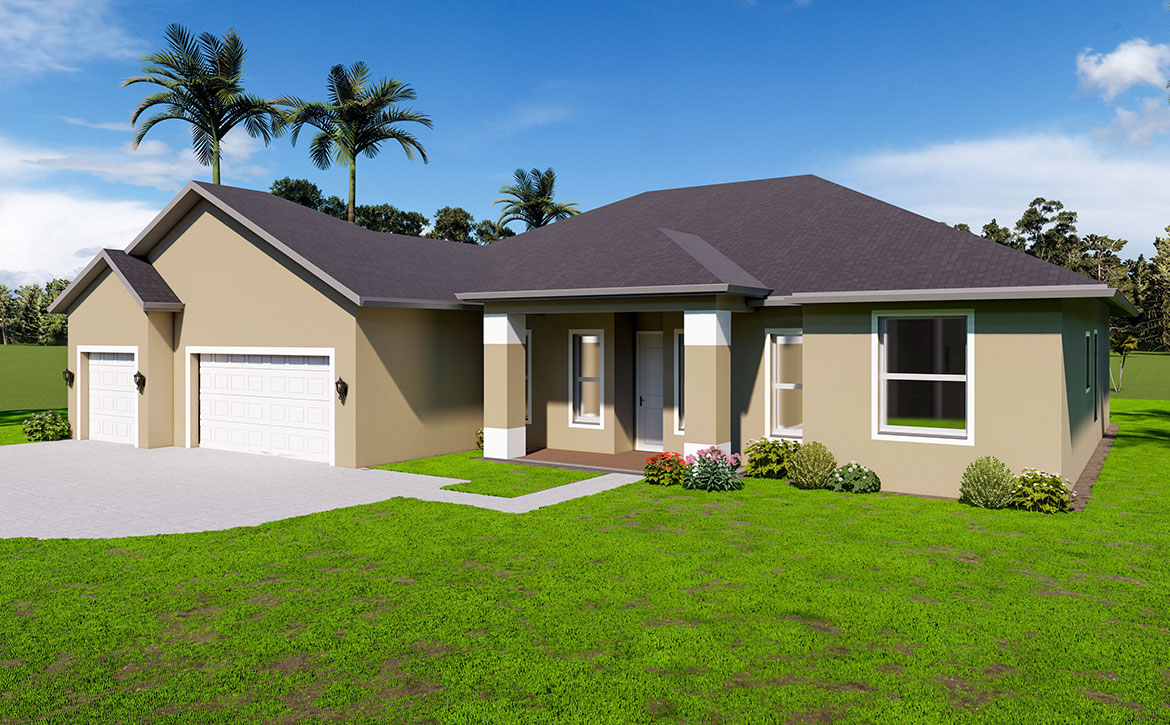
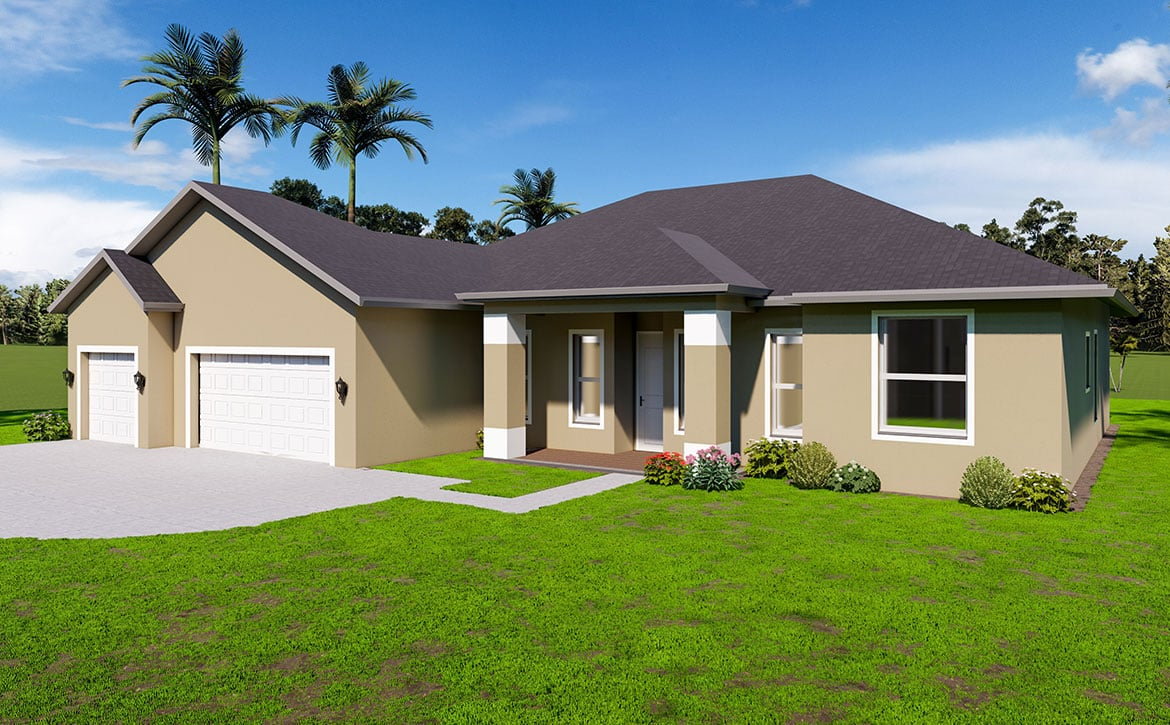
Add image optimization script and update images

diff --git a/scripts/optimize-images.js b/scripts/optimize-images.js
@@ -1,0 +1,273 @@
+const sharp = require('sharp');
+const fs = require('fs');
+const path = require('path');
+
+const imgDir = path.join(__dirname, '../public/img');
+const testimonialsDir = path.join(__dirname, '../public/img/testimonios');
+
+// Configuración de optimización
+const config = {
+  jpg: {
+    quality: 85, // Calidad 85 es un buen balance entre tamaño y calidad
+    mozjpeg: true, // Usa mozjpeg para mejor compresión
+  },
+  png: {
+    quality: 90,
+    compressionLevel: 9, // Máxima compresión
+    palette: true, // Intenta usar paleta de colores si es posible
+  },
+  webp: {
+    quality: 85,
+    effort: 6, // Esfuerzo de compresión (0-6, más alto = mejor compresión pero más lento)
+  },
+};
+
+// Tamaño máximo recomendado para imágenes web (1920px de ancho es suficiente para la mayoría)
+const maxWidth = 1920;
+const maxHeight = 1920;
+
+/**
+ * Formatea bytes a formato legible
+ */
+const formatBytes = (bytes) => {
+  if (bytes < 1024) return `${bytes} B`;
+  if (bytes < 1024 * 1024) return `${(bytes / 1024).toFixed(2)} KB`;
+  return `${(bytes / (1024 * 1024)).toFixed(2)} MB`;
+};
+
+/**
+ * Obtiene el tamaño del archivo en formato legible
+ */
+const getFileSize = (filePath) => {
+  const stats = fs.statSync(filePath);
+  return formatBytes(stats.size);
+};
+
+/**
+ * Optimiza una imagen JPG
+ */
+const optimizeJPG = async (inputPath, outputPath) => {
+  const metadata = await sharp(inputPath).metadata();
+  let pipeline = sharp(inputPath);
+
+  // Redimensionar si es muy grande
+  if (metadata.width > maxWidth || metadata.height > maxHeight) {
+    pipeline = pipeline.resize(maxWidth, maxHeight, {
+      fit: 'inside',
+      withoutEnlargement: true,
+    });
+  }
+
+  await pipeline
+    .jpeg({
+      quality: config.jpg.quality,
+      mozjpeg: config.jpg.mozjpeg,
+    })
+    .toFile(outputPath);
+};
+
+/**
+ * Optimiza una imagen PNG
+ */
+const optimizePNG = async (inputPath, outputPath) => {
+  const metadata = await sharp(inputPath).metadata();
+  let pipeline = sharp(inputPath);
+
+  // Redimensionar si es muy grande
+  if (metadata.width > maxWidth || metadata.height > maxHeight) {
+    pipeline = pipeline.resize(maxWidth, maxHeight, {
+      fit: 'inside',
+      withoutEnlargement: true,
+    });
+  }
+
+  await pipeline
+    .png({
+      quality: config.png.quality,
+      compressionLevel: config.png.compressionLevel,
+      palette: config.png.palette,
+    })
+    .toFile(outputPath);
+};
+
+/**
+ * Optimiza una imagen convirtiéndola a WebP (opcional, mejor compresión)
+ */
+const optimizeToWebP = async (inputPath, outputPath) => {
+  const metadata = await sharp(inputPath).metadata();
+  let pipeline = sharp(inputPath);
+
+  // Redimensionar si es muy grande
+  if (metadata.width > maxWidth || metadata.height > maxHeight) {
+    pipeline = pipeline.resize(maxWidth, maxHeight, {
+      fit: 'inside',
+      withoutEnlargement: true,
+    });
+  }
+
+  await pipeline
+    .webp({
+      quality: config.webp.quality,
+      effort: config.webp.effort,
+    })
+    .toFile(outputPath);
+};
+
+/**
+ * Procesa un archivo de imagen
+ */
+const processImage = async (filePath) => {
+  const ext = path.extname(filePath).toLowerCase();
+  const fileName = path.basename(filePath);
+  const dir = path.dirname(filePath);
+  const nameWithoutExt = path.basename(filePath, ext);
+
+  // Obtener tamaño original
+  const originalSize = fs.statSync(filePath).size;
+
+  try {
+    let outputPath;
+    let optimized = false;
+
+    if (ext === '.jpg' || ext === '.jpeg') {
+      // Para JPG, optimizar manteniendo el formato
+      outputPath = path.join(dir, `${nameWithoutExt}_optimized${ext}`);
+      await optimizeJPG(filePath, outputPath);
+      optimized = true;
+    } else if (ext === '.png') {
+      // Para PNG, intentar optimizar primero
+      outputPath = path.join(dir, `${nameWithoutExt}_optimized${ext}`);
+      await optimizePNG(filePath, outputPath);
+      optimized = true;
+    } else {
+      console.log(`⚠  Saltando ${fileName} (formato no soportado: ${ext})`);
+      return null;
+    }
+
+    if (optimized) {
+      const newSize = fs.statSync(outputPath).size;
+      const reduction = ((originalSize - newSize) / originalSize) * 100;
+      const saved = originalSize - newSize;
+
+      // Si la optimización redujo el tamaño significativamente, reemplazar
+      if (newSize < originalSize) {
+        // Hacer backup del original
+        const backupPath = path.join(dir, `${nameWithoutExt}_backup${ext}`);
+        fs.copyFileSync(filePath, backupPath);
+
+        // Reemplazar original con optimizado
+        fs.renameSync(outputPath, filePath);
+
+        return {
+          fileName,
+          originalSize,
+          newSize,
+          reduction,
+          saved,
+          backupPath,
+        };
+      } else {
+        // Si no mejoró, eliminar el archivo optimizado
+        fs.unlinkSync(outputPath);
+        console.log(`⚠  ${fileName} no mejoró con la optimización, manteniendo original`);
+        return null;
+      }
+    }
+  } catch (error) {
+    console.error(`❌ Error procesando ${fileName}:`, error.message);
+    return null;
+  }
+};
+
+/**
+ * Encuentra todas las imágenes en un directorio
+ */
+const findImages = (dir) => {
+  const files = fs.readdirSync(dir);
+  const images = [];
+
+  for (const file of files) {
+    const filePath = path.join(dir, file);
+    const stat = fs.statSync(filePath);
+
+    if (stat.isDirectory()) {
+      // Procesar subdirectorios recursivamente
+      images.push(...findImages(filePath));
+    } else {
+      const ext = path.extname(file).toLowerCase();
+      if (['.jpg', '.jpeg', '.png'].includes(ext)) {
+        images.push(filePath);
+      }
+    }
+  }
+
+  return images;
+};
+
+/**
+ * Función principal
+ */
+const optimizeImages = async () => {
+  console.log('🚀 Iniciando optimización de imágenes...\n');
+
+  // Encontrar todas las imágenes
+  const images = findImages(imgDir);
+  console.log(`📸 Encontradas ${images.length} imágenes para optimizar\n`);
+
+  const results = [];
+  let totalOriginalSize = 0;
+  let totalNewSize = 0;
+
+  // Procesar cada imagen
+  for (let i = 0; i < images.length; i++) {
+    const imagePath = images[i];
+    const fileName = path.basename(imagePath);
+    console.log(`[${i + 1}/${images.length}] Procesando ${fileName}...`);
+
+    const result = await processImage(imagePath);
+    if (result) {
+      results.push(result);
+      totalOriginalSize += result.originalSize;
+      totalNewSize += result.newSize;
+
+      console.log(
+        `  ✓ Optimizado: ${formatBytes(result.originalSize)} → ${formatBytes(result.newSize)} (${result.reduction.toFixed(1)}% reducción)`
+      );
+    }
+  }
+
+  // Mostrar resumen
+  console.log('\n' + '='.repeat(60));
+  console.log('📊 RESUMEN DE OPTIMIZACIÓN');
+  console.log('='.repeat(60));
+  console.log(`Total de imágenes optimizadas: ${results.length}`);
+  console.log(`Tamaño original total: ${formatBytes(totalOriginalSize)}`);
+  console.log(`Tamaño optimizado total: ${formatBytes(totalNewSize)}`);
+  console.log(
+    `Reducción total: ${formatBytes(totalOriginalSize - totalNewSize)} (${((totalOriginalSize - totalNewSize) / totalOriginalSize * 100).toFixed(1)}%)`
+  );
+  console.log('\n✅ Optimización completada!');
+
+  // Mostrar archivos más grandes optimizados
+  if (results.length > 0) {
+    console.log('\n📋 Top 5 imágenes con mayor reducción:');
+    results
+      .sort((a, b) => b.saved - a.saved)
+      .slice(0, 5)
+      .forEach((result, index) => {
+        console.log(
+          `  ${index + 1}. ${result.fileName}: ${formatBytes(result.originalSize)} → ${formatBytes(result.newSize)} (${result.reduction.toFixed(1)}%)`
+        );
+      });
+  }
+
+  console.log('\n💡 Nota: Los archivos originales se guardaron como backup con sufijo "_backup"');
+  console.log('   Puedes eliminarlos después de verificar que todo funciona correctamente.');
+};
+
+// Ejecutar
+optimizeImages().catch((error) => {
+  console.error('❌ Error fatal:', error);
+  process.exit(1);
+});
+
